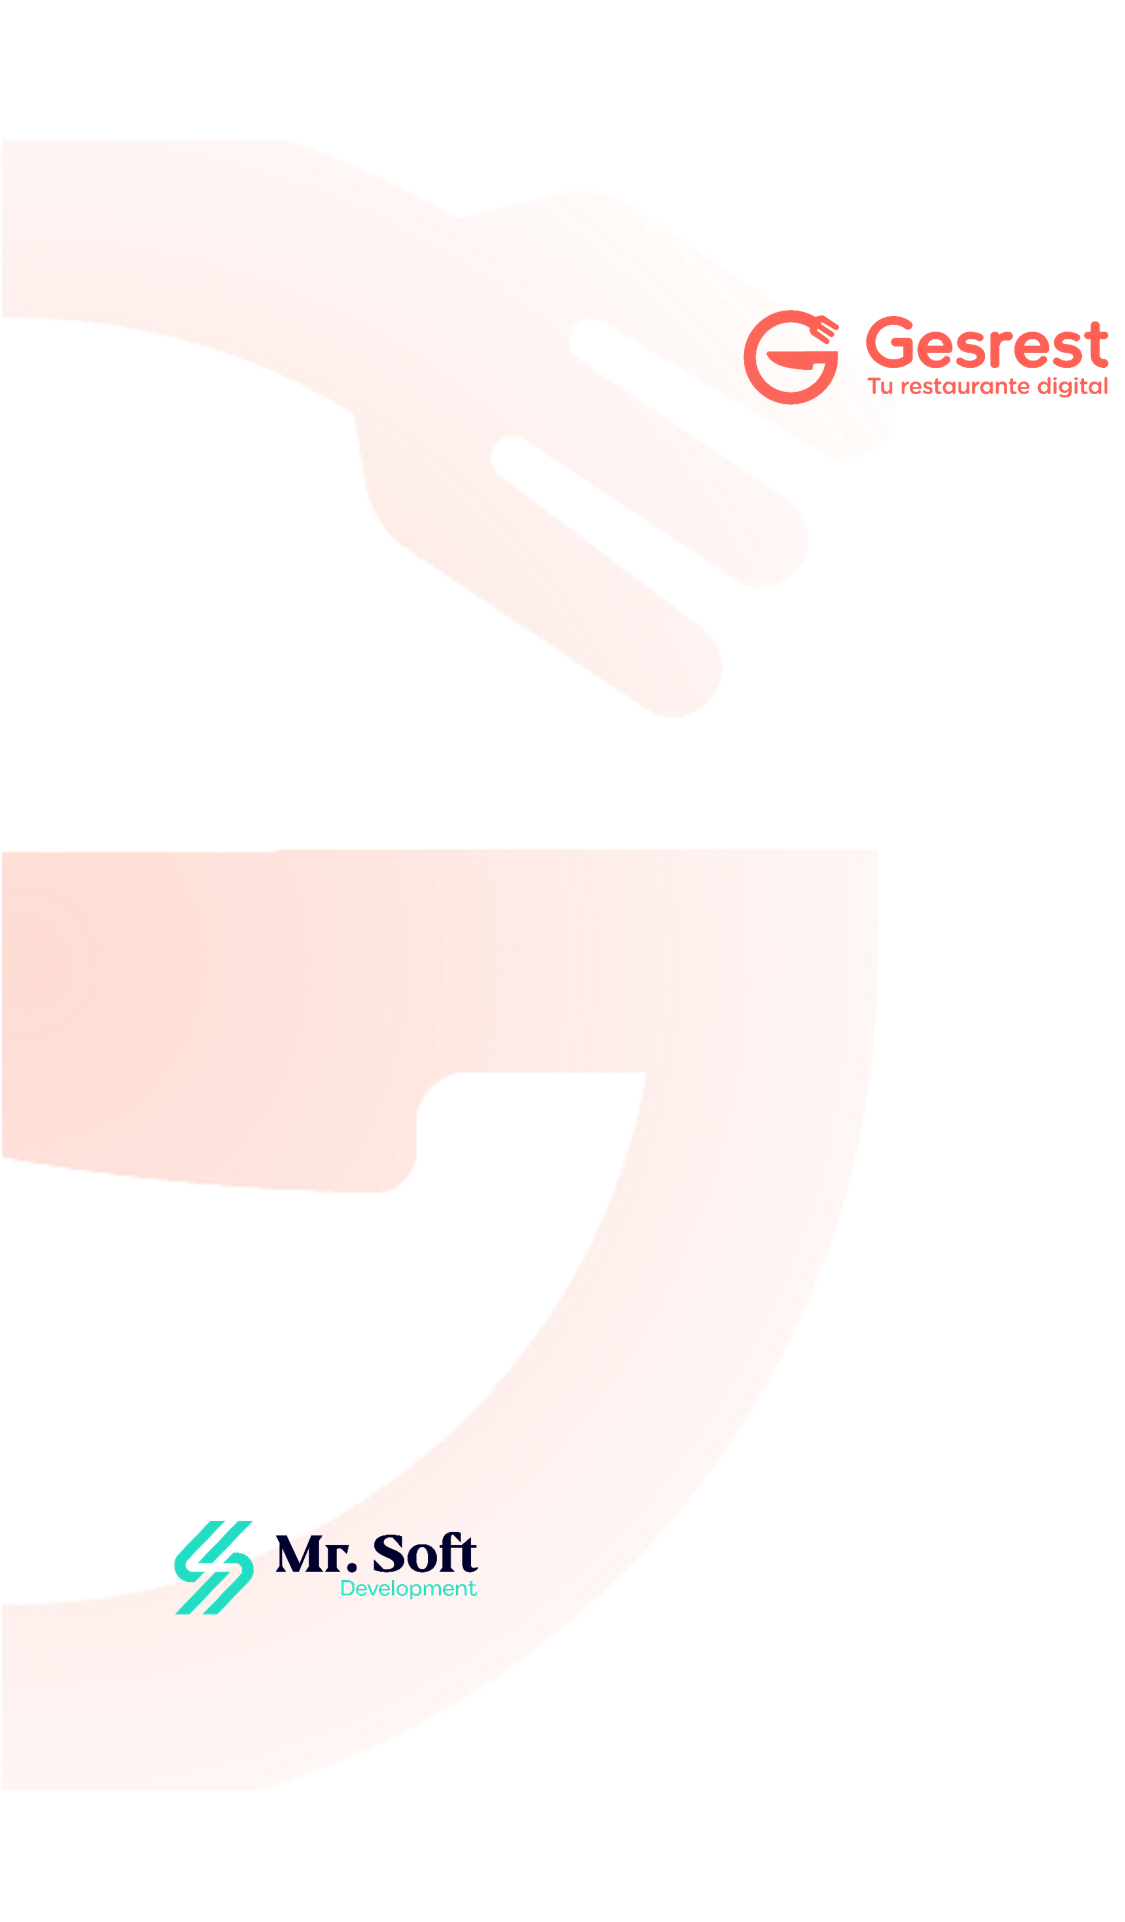
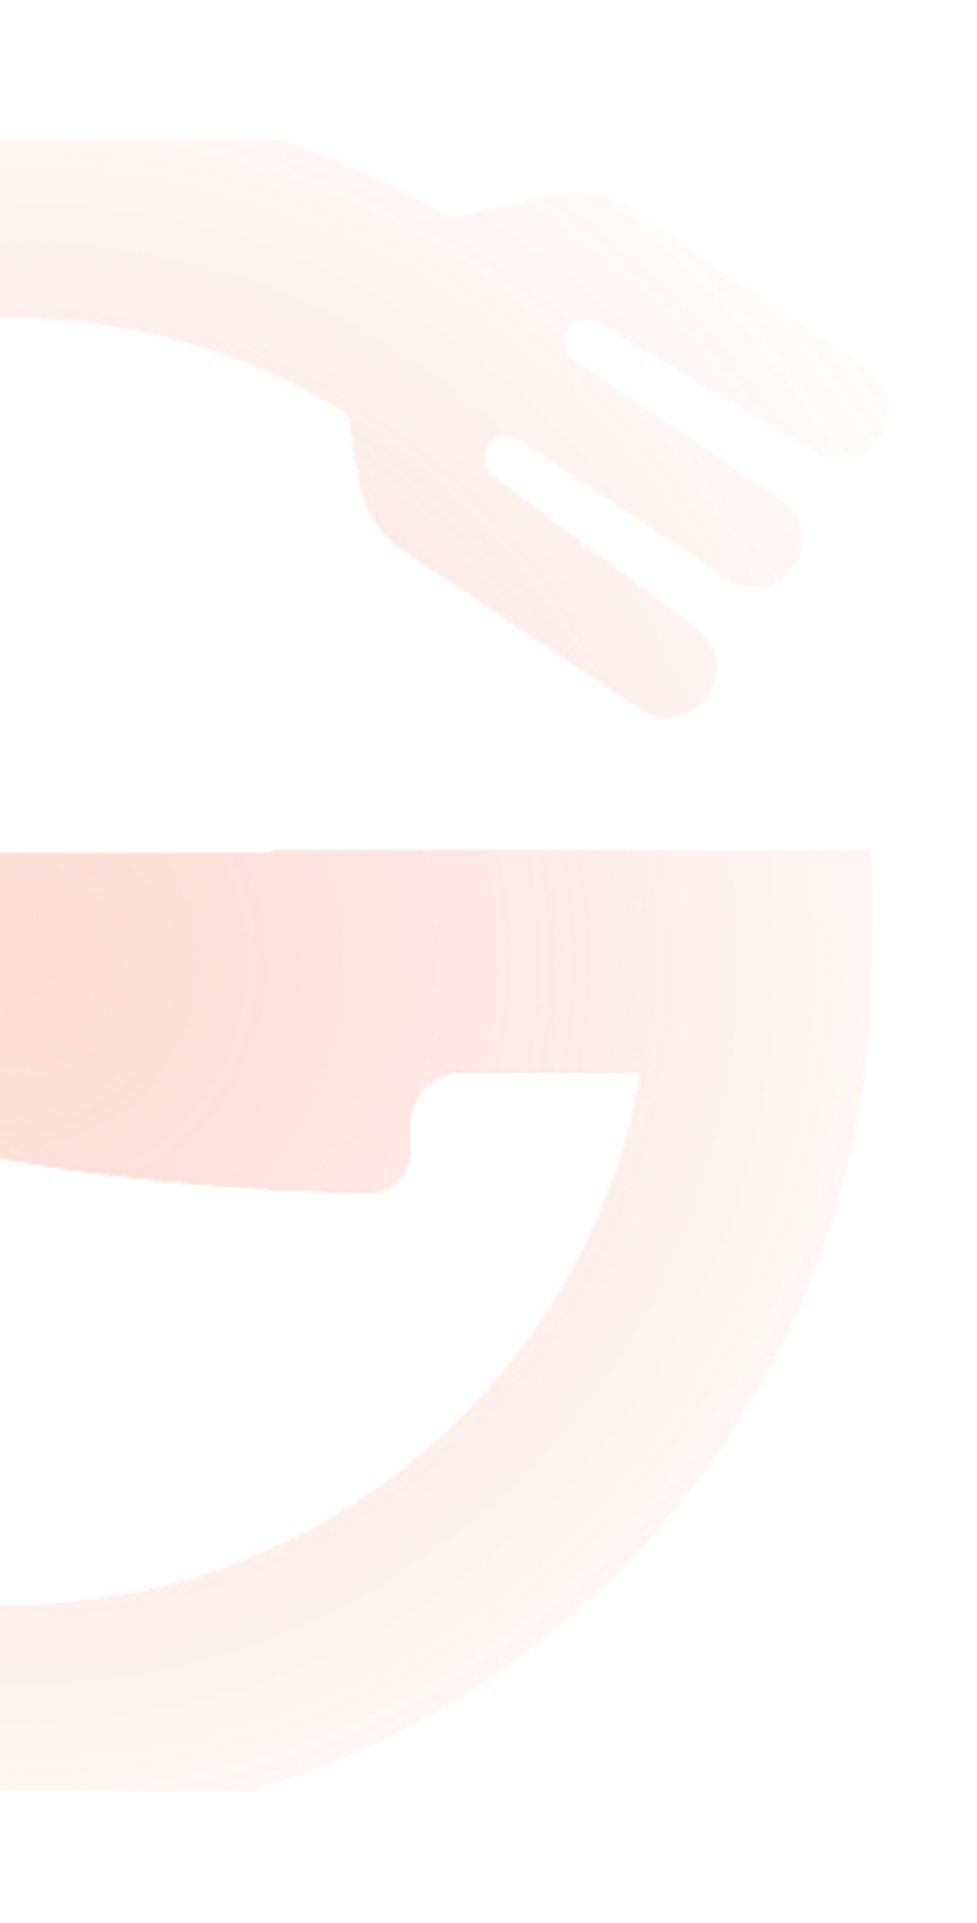
fix(products): make Page 1 cover background occupy exactly 2/3 of page width

diff --git a/src/pages/products/lib/defaultGesrestHtml.ts b/src/pages/products/lib/defaultGesrestHtml.ts
@@ -12,19 +12,19 @@ export function getDefaultGesrestPages(productName: string = "GESREST"): string[
   return [
     // PÁGINA 1: PORTADA
     `
-<div style="position: absolute; top: 0; left: 0; right: 0; bottom: 0; width: 100%; height: 100%; pointer-events: none; z-index: 0;">
-  <img src="/fondo_gesrest.png" alt="Fondo Gesrest" style="width: 100%; height: 100%; object-fit: fill;" />
+<div style="position: absolute; top: 0; left: 0; bottom: 0; width: 68%; height: 100%; pointer-events: none; z-index: 0;">
+  <img src="/fondo_gesrest.png" alt="Fondo Gesrest" style="width: 100%; height: 100%; object-fit: contain; object-position: left center;" />
 </div>
 
-<div style="position: relative; z-index: 1; padding: 20px;">
-  <div style="text-align: right; margin-top: 60px; margin-right: 10px;">
+<div style="position: relative; z-index: 1; padding: 20px; min-height: 980px;">
+  <div style="text-align: right; margin-top: 70px; margin-right: 15px;">
     <div style="font-size: 12px; color: #444; line-height: 1.8;">
       <div>+51 979 293 176</div>
       <div><a href="mailto:martin.ampuero@garzasoft.com" style="color: #0b4e8c; text-decoration: underline;">martin.ampuero@garzasoft.com</a></div>
     </div>
   </div>
 
-  <div style="text-align: right; margin-top: 640px; margin-right: 15px;">
+  <div style="text-align: right; margin-top: 670px; margin-right: 20px;">
     <a href="https://www.gesrest.net" target="_blank" rel="noopener noreferrer" style="color: #eb5454; font-weight: bold; font-size: 14px; text-decoration: none;">
       www.gesrest.net
     </a>
